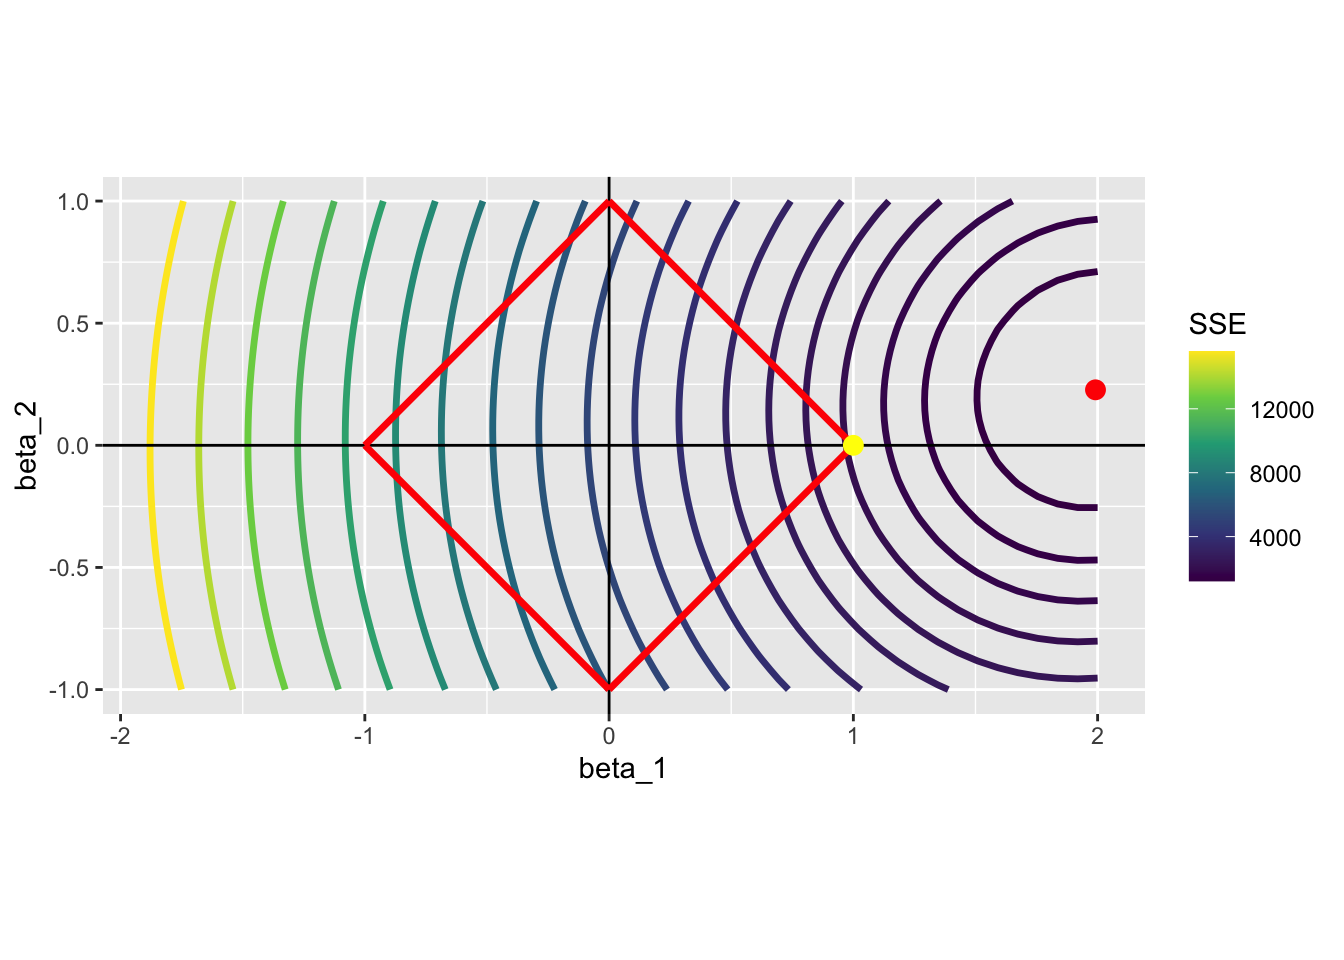
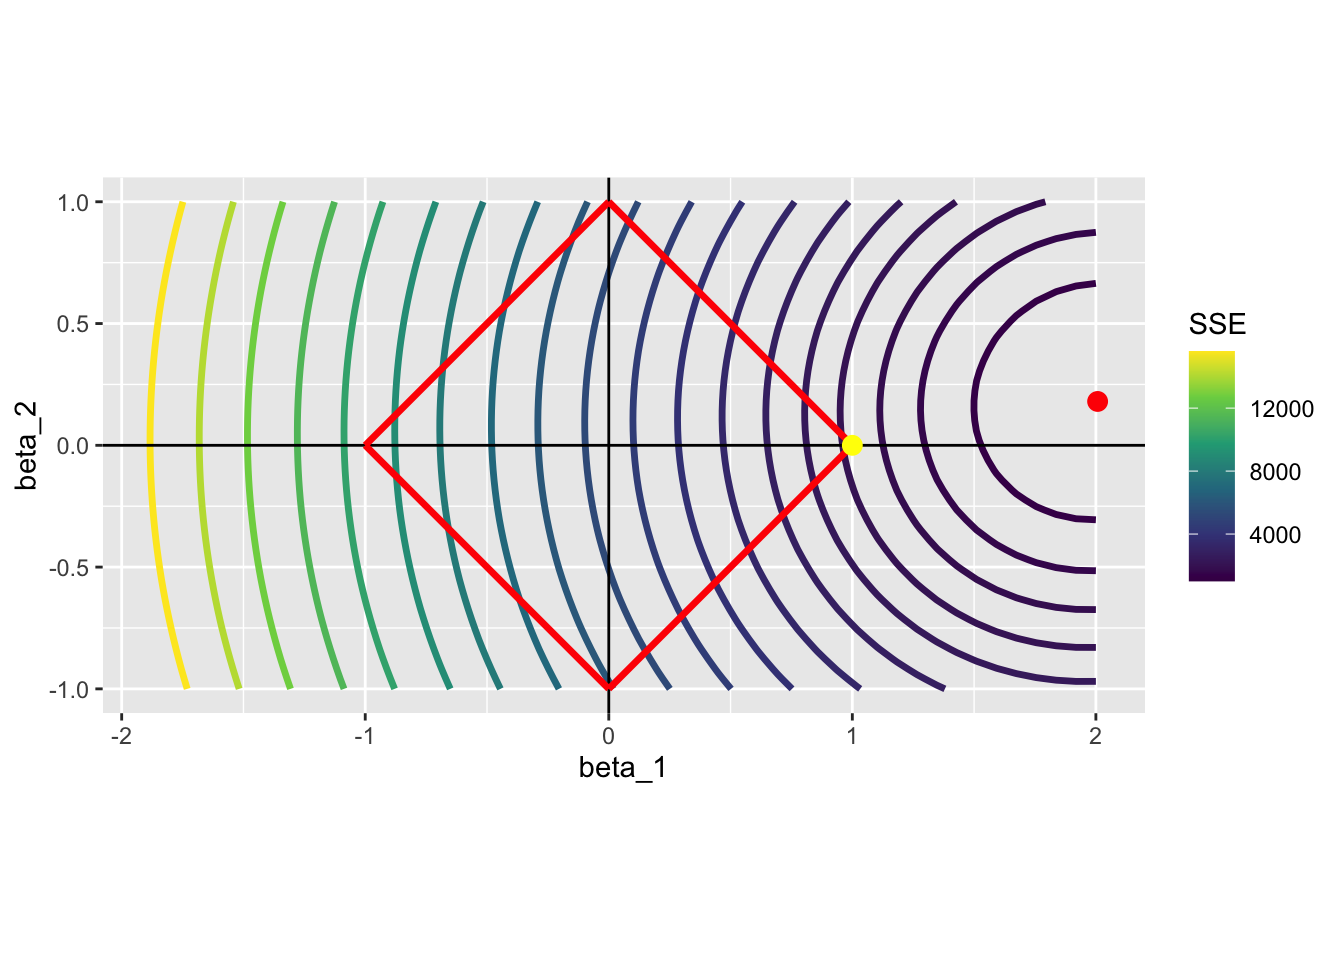
modified

diff --git a/docs/P03-xgb.html b/docs/P03-xgb.html
@@ -489,8 +489,8 @@ digraph {
 "</span>
 <span class="op">)</span></code><button title="Copy to Clipboard" class="code-copy-button"><i class="bi"></i></button></pre></div>
 </details><div class="cell-output-display">
-<div id="htmlwidget-b55a30d50eeb49636485" style="width:100%;height:464px;" class="grViz html-widget"></div>
-<script type="application/json" data-for="htmlwidget-b55a30d50eeb49636485">{"x":{"diagram":"\ndigraph {\n  graph [ranksep = 0.2]\n  node [shape = box]\n    T1R [label = \"L: -9\"]\n    T1L [label = \"R: 1 , 2 , 6\"]\n    T0 [label = \"-9, 1 , 2 , 6\"]\n  edge [minlen = 2]\n    T0->T1L\n    T0->T1R\n  { rank = same; T1R; T1L}\n}\n","config":{"engine":"dot","options":null}},"evals":[],"jsHooks":[]}</script>
+<div id="htmlwidget-83a33d74590fc32b9a45" style="width:100%;height:464px;" class="grViz html-widget"></div>
+<script type="application/json" data-for="htmlwidget-83a33d74590fc32b9a45">{"x":{"diagram":"\ndigraph {\n  graph [ranksep = 0.2]\n  node [shape = box]\n    T1R [label = \"L: -9\"]\n    T1L [label = \"R: 1 , 2 , 6\"]\n    T0 [label = \"-9, 1 , 2 , 6\"]\n  edge [minlen = 2]\n    T0->T1L\n    T0->T1R\n  { rank = same; T1R; T1L}\n}\n","config":{"engine":"dot","options":null}},"evals":[],"jsHooks":[]}</script>
 </div>
 </div>
 </div></div><p>Let’s split the data.</p>
@@ -558,8 +558,8 @@ w_R^* &amp; = 1 + 2 + 6 / (3 + 1) = 2.25
 
 <span class="op">)</span></code><button title="Copy to Clipboard" class="code-copy-button"><i class="bi"></i></button></pre></div>
 </details><div class="cell-output-display">
-<div id="htmlwidget-68f100e0810a82c9cc08" style="width:100%;height:464px;" class="grViz html-widget"></div>
-<script type="application/json" data-for="htmlwidget-68f100e0810a82c9cc08">{"x":{"diagram":"\n  digraph {\n    graph [ranksep = 0.2]\n    node [shape = box]\n      T1R [label = \"L: -9 \n Q score = 40.5\"]\n      T1L [label = \"R: 1 , 2 , 6 \n Q score = 20.25\"]\n      T0 [label = \"-9, 1 , 2 , 6\"]\n    edge [minlen = 2]\n      T0->T1L\n      T0->T1R\n    { rank = same; T1R; T1L}\n  }\n  ","config":{"engine":"dot","options":null}},"evals":[],"jsHooks":[]}</script>
+<div id="htmlwidget-def099c6d6eb3ab6c0e5" style="width:100%;height:464px;" class="grViz html-widget"></div>
+<script type="application/json" data-for="htmlwidget-def099c6d6eb3ab6c0e5">{"x":{"diagram":"\n  digraph {\n    graph [ranksep = 0.2]\n    node [shape = box]\n      T1R [label = \"L: -9 \n Q score = 40.5\"]\n      T1L [label = \"R: 1 , 2 , 6 \n Q score = 20.25\"]\n      T0 [label = \"-9, 1 , 2 , 6\"]\n    edge [minlen = 2]\n      T0->T1L\n      T0->T1R\n    { rank = same; T1R; T1L}\n  }\n  ","config":{"engine":"dot","options":null}},"evals":[],"jsHooks":[]}</script>
 </div>
 </div>
 </div></div><p><span class="math display">\[
@@ -644,8 +644,8 @@ G_1 = \frac{40.5 + 20.25 - 0}{2} - 10 = 20.375
   <span class="op">)</span>
 <span class="op">)</span></code><button title="Copy to Clipboard" class="code-copy-button"><i class="bi"></i></button></pre></div>
 </details><div class="cell-output-display">
-<div id="htmlwidget-50b70d557969637ce38c" style="width:100%;height:464px;" class="grViz html-widget"></div>
-<script type="application/json" data-for="htmlwidget-50b70d557969637ce38c">{"x":{"diagram":"\n    digraph {\n      graph [ranksep = 0.2]\n      node [shape = box]\n        T1R [label = \"L: -9, 1 \n Q score = 21.33\"]\n        T1L [label = \"R: 2 , 6 \n Q score = 21.33\"]\n        T0 [label = \"-9, 1 , 2 , 6\"]\n      edge [minlen = 2]\n        T0->T1L\n        T0->T1R\n      { rank = same; T1R; T1L}\n    }\n    ","config":{"engine":"dot","options":null}},"evals":[],"jsHooks":[]}</script>
+<div id="htmlwidget-af1f3c4f6413f3c9ba6e" style="width:100%;height:464px;" class="grViz html-widget"></div>
+<script type="application/json" data-for="htmlwidget-af1f3c4f6413f3c9ba6e">{"x":{"diagram":"\n    digraph {\n      graph [ranksep = 0.2]\n      node [shape = box]\n        T1R [label = \"L: -9, 1 \n Q score = 21.33\"]\n        T1L [label = \"R: 2 , 6 \n Q score = 21.33\"]\n        T0 [label = \"-9, 1 , 2 , 6\"]\n      edge [minlen = 2]\n        T0->T1L\n        T0->T1R\n      { rank = same; T1R; T1L}\n    }\n    ","config":{"engine":"dot","options":null}},"evals":[],"jsHooks":[]}</script>
 </div>
 </div>
 </div></div><p><span class="math display">\[
@@ -693,8 +693,8 @@ G_2 = \frac{21.33 + 21.33 - 0}{2} - 10 = 11.3333333
   <span class="op">)</span>
 <span class="op">)</span></code><button title="Copy to Clipboard" class="code-copy-button"><i class="bi"></i></button></pre></div>
 </details><div class="cell-output-display">
-<div id="htmlwidget-18af0cc9e54ccb02a06b" style="width:100%;height:464px;" class="grViz html-widget"></div>
-<script type="application/json" data-for="htmlwidget-18af0cc9e54ccb02a06b">{"x":{"diagram":"\n    digraph {\n      graph [ranksep = 0.2]\n      node [shape = box]\n        T1R [label = \"L: -9, 1, 2 \n Q score = 9\"]\n        T1L [label = \"R: 6 \n Q score = 18\"]\n        T0 [label = \"-9, 1 , 2 , 6\"]\n      edge [minlen = 2]\n        T0->T1L\n        T0->T1R\n      { rank = same; T1R; T1L}\n    }\n    ","config":{"engine":"dot","options":null}},"evals":[],"jsHooks":[]}</script>
+<div id="htmlwidget-9fc34ca02b4d4feabaf1" style="width:100%;height:464px;" class="grViz html-widget"></div>
+<script type="application/json" data-for="htmlwidget-9fc34ca02b4d4feabaf1">{"x":{"diagram":"\n    digraph {\n      graph [ranksep = 0.2]\n      node [shape = box]\n        T1R [label = \"L: -9, 1, 2 \n Q score = 9\"]\n        T1L [label = \"R: 6 \n Q score = 18\"]\n        T0 [label = \"-9, 1 , 2 , 6\"]\n      edge [minlen = 2]\n        T0->T1L\n        T0->T1R\n      { rank = same; T1R; T1L}\n    }\n    ","config":{"engine":"dot","options":null}},"evals":[],"jsHooks":[]}</script>
 </div>
 </div>
 </div></div><p><span class="math display">\[
@@ -766,8 +766,8 @@ Note
 
 <span class="op">)</span></code><button title="Copy to Clipboard" class="code-copy-button"><i class="bi"></i></button></pre></div>
 </details><div class="cell-output-display">
-<div id="htmlwidget-c3304400b6cd1dbb2e21" style="width:100%;height:325px;" class="grViz html-widget"></div>
-<script type="application/json" data-for="htmlwidget-c3304400b6cd1dbb2e21">{"x":{"diagram":"\n  digraph {\n    graph [ranksep = 0.2]\n    node [shape = box, width = 0.3, height = 0.15, fontsize = 3, fixedsize = TRUE, penwidth = 0.2]\n      T1R [label = \"L: -9 \n w* = -4.5\"]\n      T1L [label = \"R: 1 , 2 , 6 \n w* = 2.25\"]\n      T0 [label = \"-9, 1 , 2 , 6\"]\n    edge [penwidth = 0.2, arrowsize = 0.3, len = 0.3]\n      T0->T1L\n      T0->T1R\n    { rank = same; T1R; T1L}\n  }\n  ","config":{"engine":"dot","options":null}},"evals":[],"jsHooks":[]}</script>
+<div id="htmlwidget-f264d7fb943a7ee77eec" style="width:100%;height:325px;" class="grViz html-widget"></div>
+<script type="application/json" data-for="htmlwidget-f264d7fb943a7ee77eec">{"x":{"diagram":"\n  digraph {\n    graph [ranksep = 0.2]\n    node [shape = box, width = 0.3, height = 0.15, fontsize = 3, fixedsize = TRUE, penwidth = 0.2]\n      T1R [label = \"L: -9 \n w* = -4.5\"]\n      T1L [label = \"R: 1 , 2 , 6 \n w* = 2.25\"]\n      T0 [label = \"-9, 1 , 2 , 6\"]\n    edge [penwidth = 0.2, arrowsize = 0.3, len = 0.3]\n      T0->T1L\n      T0->T1R\n    { rank = same; T1R; T1L}\n  }\n  ","config":{"engine":"dot","options":null}},"evals":[],"jsHooks":[]}</script>
 </div>
 </div>
 <p>We now use <span class="math inline">\(w^*\)</span> from this tree to update our prediction according to <a href="#eq-update">Equation&nbsp;<span>9.7</span></a>.</p>
@@ -892,8 +892,8 @@ f_{i = 4,b = 1} = 6 + 0.3 \times 2.25 = 6.68
 
 <span class="op">)</span></code><button title="Copy to Clipboard" class="code-copy-button"><i class="bi"></i></button></pre></div>
 <div class="cell-output-display">
-<div id="htmlwidget-5307f49618aa154a9b70" style="width:100%;height:464px;" class="grViz html-widget"></div>
-<script type="application/json" data-for="htmlwidget-5307f49618aa154a9b70">{"x":{"diagram":"\n  digraph {\n    graph [ranksep = 0.2]\n    node [shape = box, width = 0.4, height = 0.15, fontsize = 3, fixedsize = TRUE, penwidth = 0.2]\n      T1R [label = \"L: -8.18 \n w* = -3.83\"]\n      T1L [label = \"R: 0.71 , 1.71 , 5.71 \n w* = 1.74\"]\n      T0 [label = \"-8.18, 0.71 , 1.71 , 5.71\"]\n    edge [penwidth = 0.2, arrowsize = 0.3, len = 0.3]\n      T0->T1L\n      T0->T1R\n    { rank = same; T1R; T1L}\n  }\n  ","config":{"engine":"dot","options":null}},"evals":[],"jsHooks":[]}</script>
+<div id="htmlwidget-c7982e8f9d25a84ad138" style="width:100%;height:464px;" class="grViz html-widget"></div>
+<script type="application/json" data-for="htmlwidget-c7982e8f9d25a84ad138">{"x":{"diagram":"\n  digraph {\n    graph [ranksep = 0.2]\n    node [shape = box, width = 0.4, height = 0.15, fontsize = 3, fixedsize = TRUE, penwidth = 0.2]\n      T1R [label = \"L: -8.18 \n w* = -3.83\"]\n      T1L [label = \"R: 0.71 , 1.71 , 5.71 \n w* = 1.74\"]\n      T0 [label = \"-8.18, 0.71 , 1.71 , 5.71\"]\n    edge [penwidth = 0.2, arrowsize = 0.3, len = 0.3]\n      T0->T1L\n      T0->T1R\n    { rank = same; T1R; T1L}\n  }\n  ","config":{"engine":"dot","options":null}},"evals":[],"jsHooks":[]}</script>
 </div>
 </div>
 <p>Let’s now update our predictions.</p>

diff --git a/docs/B04-regularization.html b/docs/B04-regularization.html
@@ -397,7 +397,7 @@ Min_{\beta} \sum_{i=1}^N (y_i - \beta_1 x_1 - \beta_2 x_2)^2 \\
 <span class="op">)</span></code><button title="Copy to Clipboard" class="code-copy-button"><i class="bi"></i></button></pre></div>
 <div class="cell-output cell-output-stdout">
 <pre><code>(Intercept)         x_1         x_2 
-0.005487254 1.991328620 0.227197583 </code></pre>
+ 0.01666832  2.00711701  0.18010906 </code></pre>
 </div>
 </div>
 <p>We now calculate the value of the objective functions at different values of <span class="math inline">\(\beta_1\)</span> and <span class="math inline">\(\beta_2\)</span>. Here is the set of <span class="math inline">\(\{\beta_1, \beta_2\}\)</span> combinations we look at.</p>
@@ -779,7 +779,7 @@ V20         -1.144987654</code></pre>
 <div class="cell">
 <div class="sourceCode" id="cb23"><pre class="downlit sourceCode r code-with-copy"><code class="sourceCode R"><span class="va">cv_lasso</span><span class="op">$</span><span class="va">lambda.min</span></code><button title="Copy to Clipboard" class="code-copy-button"><i class="bi"></i></button></pre></div>
 <div class="cell-output cell-output-stdout">
-<pre><code>[1] 0.08307327</code></pre>
+<pre><code>[1] 0.06896889</code></pre>
 </div>
 </div>
 <p>You can access the coefficient estimates when <span class="math inline">\(\lambda\)</span> is <code>lambda.min</code> as follows</p>
@@ -787,28 +787,28 @@ V20         -1.144987654</code></pre>
 <div class="sourceCode" id="cb25"><pre class="downlit sourceCode r code-with-copy"><code class="sourceCode R"><span class="fu"><a href="https://rdrr.io/r/stats/coef.html">coef</a></span><span class="op">(</span><span class="va">cv_lasso</span>, s <span class="op">=</span> <span class="st">"lambda.min"</span><span class="op">)</span></code><button title="Copy to Clipboard" class="code-copy-button"><i class="bi"></i></button></pre></div>
 <div class="cell-output cell-output-stdout">
 <pre><code>21 x 1 sparse Matrix of class "dgCMatrix"
-                     s1
-(Intercept)  0.14936467
-V1           1.32975267
-V2           .         
-V3           0.69096092
-V4           .         
-V5          -0.83122558
-V6           0.53669611
-V7           0.02005438
-V8           0.33193760
-V9           .         
-V10          .         
-V11          0.16239419
-V12          .         
-V13          .         
-V14         -1.07081121
-V15          .         
-V16          .         
-V17          .         
-V18          .         
-V19          .         
-V20         -1.04340741</code></pre>
+                      s1
+(Intercept)  0.147927056
+V1           1.337393911
+V2           .          
+V3           0.704086481
+V4           .          
+V5          -0.842853150
+V6           0.549403480
+V7           0.032703914
+V8           0.342430521
+V9           .          
+V10          0.001206608
+V11          0.178995989
+V12          .          
+V13          .          
+V14         -1.079993473
+V15          .          
+V16          .          
+V17          .          
+V18          .          
+V19          .          
+V20         -1.061382444</code></pre>
 </div>
 </div>
 <p>The following code gives you the coefficient estimates when <span class="math inline">\(\lambda\)</span> is <code>lambda.1se</code></p>
@@ -867,27 +867,27 @@ Note
 <div class="cell-output cell-output-stdout">
 <pre><code>21 x 1 sparse Matrix of class "dgCMatrix"
                     s1
-(Intercept)  0.1477086
-V1           1.3413552
+(Intercept)  0.1482955
+V1           1.3381070
 V2           .        
-V3           0.7003682
+V3           0.6936938
 V4           .        
-V5          -0.8315680
-V6           0.5507735
-V7           0.0294112
-V8           0.3446125
+V5          -0.8249778
+V6           0.5448439
+V7           0.0230429
+V8           0.3398575
 V9           .        
 V10          .        
-V11          0.1733043
+V11          0.1648445
 V12          .        
 V13          .        
-V14         -1.0840644
+V14         -1.0801745
 V15          .        
 V16          .        
 V17          .        
 V18          .        
 V19          .        
-V20         -1.0441256</code></pre>
+V20         -1.0338882</code></pre>
 </div>
 </div>
 <p>Here is after scaling:</p>
@@ -932,27 +932,27 @@ V20         -1.32068655</code></pre>
 <div class="cell-output cell-output-stdout">
 <pre><code>21 x 1 sparse Matrix of class "dgCMatrix"
                      s1
-(Intercept)  0.14936467
-V1           1.32975267
+(Intercept)  0.14867414
+V1           1.33377821
 V2           .         
-V3           0.69096092
+V3           0.69787701
 V4           .         
-V5          -0.83122558
-V6           0.53669611
-V7           0.02005438
-V8           0.33193760
+V5          -0.83726751
+V6           0.54334327
+V7           0.02668633
+V8           0.33741131
 V9           .         
 V10          .         
-V11          0.16239419
+V11          0.17105029
 V12          .         
 V13          .         
-V14         -1.07081121
+V14         -1.07552680
 V15          .         
 V16          .         
 V17          .         
 V18          .         
 V19          .         
-V20         -1.04340741</code></pre>
+V20         -1.05278699</code></pre>
 </div>
 <div class="sourceCode" id="cb35"><pre class="downlit sourceCode r code-with-copy"><code class="sourceCode R"><span class="co">#=== scaled ===#</span>
 <span class="fu">cv.glmnet</span><span class="op">(</span><span class="va">X_scaled</span>, <span class="va">y</span>, nfolds <span class="op">=</span> <span class="fl">5</span>, standardize <span class="op">=</span> <span class="cn">TRUE</span><span class="op">)</span> <span class="op">%&gt;%</span> 
@@ -960,27 +960,27 @@ V20         -1.04340741</code></pre>
 <div class="cell-output cell-output-stdout">
 <pre><code>21 x 1 sparse Matrix of class "dgCMatrix"
                        s1
-(Intercept)  1.458320e-01
-V1           1.340981e+03
+(Intercept)  1.479271e-01
+V1           1.337394e+03
 V2           .           
-V3           7.083471e-01
+V3           7.040865e-01
 V4           .           
-V5          -8.480878e-01
-V6           5.548238e-01
-V7           3.851974e-02
-V8           3.472213e-01
+V5          -8.428531e-01
+V6           5.494035e-01
+V7           3.270391e-02
+V8           3.424305e-01
 V9           .           
-V10          1.003405e-02
-V11          1.863653e-01
+V10          1.206608e-03
+V11          1.789960e-01
 V12          .           
 V13          .           
-V14         -1.086007e+00
-V15         -4.444319e-03
+V14         -1.079993e+00
+V15          .           
 V16          .           
 V17          .           
 V18          .           
 V19          .           
-V20         -1.069943e+00</code></pre>
+V20         -1.061382e+00</code></pre>
 </div>
 </div>
 <p>While you do not have to worry about scaling issues as long as you are using <code>glmnet()</code>, this is something worth remembering.</p>

diff --git a/docs/P02-boosted-regression-forest.html b/docs/P02-boosted-regression-forest.html
@@ -481,21 +481,21 @@ r_{i,b} = - \huge[\normalsize\frac{\partial L(y_i, f(x_i))}{\partial f(x_i)}\hug
 <div class="sourceCode" id="cb26"><pre class="downlit sourceCode r code-with-copy"><code class="sourceCode R"><span class="co">#=== see the MSE history ===#  </span>
 <span class="va">gbm_fit</span><span class="op">$</span><span class="va">cv.error</span></code><button title="Copy to Clipboard" class="code-copy-button"><i class="bi"></i></button></pre></div>
 <div class="cell-output cell-output-stdout">
-<pre><code>  [1] 1.2198383 1.1099112 1.0116043 0.9338046 0.8641400 0.8103384 0.7630733
-  [8] 0.7130854 0.6756473 0.6424288 0.6147108 0.5840512 0.5639337 0.5403991
- [15] 0.5226747 0.5031897 0.4911730 0.4797407 0.4686225 0.4590659 0.4489960
- [22] 0.4399448 0.4321775 0.4276671 0.4233770 0.4184197 0.4131489 0.4116632
- [29] 0.4072300 0.4061543 0.4046611 0.4016171 0.3989080 0.3978042 0.3951927
- [36] 0.3921705 0.3925648 0.3922438 0.3915587 0.3906950 0.3889498 0.3887573
- [43] 0.3867005 0.3868359 0.3856548 0.3844319 0.3835544 0.3829116 0.3821933
- [50] 0.3820211 0.3804808 0.3813778 0.3829497 0.3823523 0.3796768 0.3785568
- [57] 0.3785289 0.3773548 0.3749115 0.3760665 0.3760136 0.3755928 0.3755852
- [64] 0.3748253 0.3744703 0.3745496 0.3750412 0.3749738 0.3751717 0.3752320
- [71] 0.3744521 0.3746552 0.3740409 0.3742584 0.3755120 0.3750227 0.3759000
- [78] 0.3760811 0.3768255 0.3759471 0.3764014 0.3759330 0.3764144 0.3762557
- [85] 0.3745856 0.3740254 0.3741536 0.3742979 0.3742221 0.3731828 0.3738018
- [92] 0.3735042 0.3733621 0.3732609 0.3743506 0.3737610 0.3737769 0.3725700
- [99] 0.3728015 0.3725077</code></pre>
+<pre><code>  [1] 1.2229690 1.1075832 1.0157435 0.9417138 0.8668569 0.8107364 0.7674985
+  [8] 0.7151831 0.6745636 0.6450490 0.6157606 0.5943775 0.5728772 0.5541941
+ [15] 0.5367066 0.5229922 0.5095516 0.4941631 0.4824212 0.4687584 0.4572636
+ [22] 0.4479893 0.4428348 0.4380302 0.4307389 0.4254884 0.4208747 0.4165191
+ [29] 0.4116251 0.4056642 0.4013533 0.3991657 0.3970355 0.3964611 0.3937440
+ [36] 0.3915728 0.3921816 0.3900771 0.3911436 0.3906951 0.3914275 0.3901961
+ [43] 0.3896571 0.3879309 0.3861445 0.3847895 0.3831043 0.3826466 0.3801617
+ [50] 0.3802345 0.3801612 0.3798797 0.3783574 0.3772985 0.3762190 0.3756384
+ [57] 0.3746196 0.3742810 0.3730617 0.3748269 0.3756662 0.3762339 0.3757384
+ [64] 0.3748527 0.3745331 0.3745911 0.3751994 0.3747395 0.3737588 0.3739640
+ [71] 0.3735709 0.3730999 0.3720065 0.3718486 0.3716349 0.3718658 0.3720764
+ [78] 0.3714145 0.3733023 0.3727223 0.3724057 0.3731439 0.3721333 0.3716534
+ [85] 0.3715348 0.3714628 0.3719048 0.3722881 0.3710087 0.3709487 0.3703085
+ [92] 0.3698065 0.3694505 0.3706741 0.3703749 0.3697160 0.3700435 0.3693750
+ [99] 0.3693814 0.3694650</code></pre>
 </div>
 </div>
 <p>You can visualize the CV results using <code><a href="https://rdrr.io/pkg/gbm/man/gbm.perf.html">gbm.perf()</a></code>.</p>
@@ -505,7 +505,7 @@ r_{i,b} = - \huge[\normalsize\frac{\partial L(y_i, f(x_i))}{\partial f(x_i)}\hug
 <p><img src="P02-boosted-regression-forest_files/figure-html/unnamed-chunk-26-1.png" class="img-fluid" width="672"></p>
 </div>
 <div class="cell-output cell-output-stdout">
-<pre><code>[1] 100</code></pre>
+<pre><code>[1] 98</code></pre>
 </div>
 </div>
 <p>Note that it will tell you what the optimal number of trees is <span style="color:blue"> given </span> the values of the other hyper-parameters (here default values). If you want to tune other parameters as well, you need to program it yourself.</p>

diff --git a/docs/A01-mc-simulation.html b/docs/A01-mc-simulation.html
@@ -287,7 +287,7 @@ code span.wa { color: #60a0b0; font-weight: bold; font-style: italic; } /* Warni
 
 <span class="fu"><a href="https://rdrr.io/r/utils/head.html">head</a></span><span class="op">(</span><span class="va">x_u</span><span class="op">)</span></code><button title="Copy to Clipboard" class="code-copy-button"><i class="bi"></i></button></pre></div>
 <div class="cell-output cell-output-stdout">
-<pre><code>[1] 0.1147423 0.4733042 0.6563786 0.3504407 0.8087864 0.5755718</code></pre>
+<pre><code>[1] 0.2819268 0.5544102 0.3399541 0.8785103 0.5901369 0.9546177</code></pre>
 </div>
 <div class="sourceCode" id="cb3"><pre class="downlit sourceCode r code-with-copy"><code class="sourceCode R"><span class="fu"><a href="https://rdrr.io/r/graphics/hist.html">hist</a></span><span class="op">(</span><span class="va">x_u</span><span class="op">)</span></code><button title="Copy to Clipboard" class="code-copy-button"><i class="bi"></i></button></pre></div>
 <div class="cell-output-display">
@@ -300,7 +300,7 @@ code span.wa { color: #60a0b0; font-weight: bold; font-style: italic; } /* Warni
 
 <span class="fu"><a href="https://rdrr.io/r/utils/head.html">head</a></span><span class="op">(</span><span class="va">x_n</span><span class="op">)</span></code><button title="Copy to Clipboard" class="code-copy-button"><i class="bi"></i></button></pre></div>
 <div class="cell-output cell-output-stdout">
-<pre><code>[1]  1.0475494 -0.4855052  0.7220932  0.8343307 -0.6774484 -0.6375413</code></pre>
+<pre><code>[1] -0.81693399 -0.28328661  0.17030182 -0.05521493 -1.16520506  0.37030996</code></pre>
 </div>
 <div class="sourceCode" id="cb6"><pre class="downlit sourceCode r code-with-copy"><code class="sourceCode R"><span class="fu"><a href="https://rdrr.io/r/graphics/hist.html">hist</a></span><span class="op">(</span><span class="va">x_n</span><span class="op">)</span></code><button title="Copy to Clipboard" class="code-copy-button"><i class="bi"></i></button></pre></div>
 <div class="cell-output-display">
@@ -312,9 +312,9 @@ code span.wa { color: #60a0b0; font-weight: bold; font-style: italic; } /* Warni
 <div class="sourceCode" id="cb7"><pre class="downlit sourceCode r code-with-copy"><code class="sourceCode R"><span class="co">#=== Bernouli (0.7) ===#</span>
 <span class="fu"><a href="https://rdrr.io/r/stats/Uniform.html">runif</a></span><span class="op">(</span><span class="fl">30</span><span class="op">)</span> <span class="op">&gt;</span> <span class="fl">0.3</span></code><button title="Copy to Clipboard" class="code-copy-button"><i class="bi"></i></button></pre></div>
 <div class="cell-output cell-output-stdout">
-<pre><code> [1]  TRUE  TRUE  TRUE  TRUE  TRUE  TRUE FALSE  TRUE FALSE  TRUE  TRUE FALSE
-[13]  TRUE  TRUE  TRUE FALSE FALSE  TRUE FALSE FALSE  TRUE  TRUE  TRUE FALSE
-[25]  TRUE  TRUE  TRUE FALSE  TRUE FALSE</code></pre>
+<pre><code> [1]  TRUE FALSE  TRUE FALSE  TRUE FALSE  TRUE  TRUE  TRUE  TRUE FALSE  TRUE
+[13]  TRUE FALSE  TRUE  TRUE  TRUE  TRUE  TRUE FALSE FALSE FALSE FALSE FALSE
+[25]  TRUE  TRUE FALSE FALSE  TRUE  TRUE</code></pre>
 </div>
 </div>
 <p>They are called <span style="color:red"> pseudo </span> random number generators because they are not truly random. What sequence of numbers you get is determined by <span style="color:blue"> seed </span>. In R, you can use <code><a href="https://rdrr.io/r/base/Random.html">set.seed()</a></code> to set seed.</p>

diff --git a/docs/P01-random-forest.html b/docs/P01-random-forest.html
@@ -675,7 +675,7 @@ Var(\frac{x_1 + x_2}{2}) &amp; = \frac{Var(x_1)}{4} + \frac{Var(x_2)}{4} + \frac
 
 <span class="fu"><a href="https://rdrr.io/r/stats/cor.html">cor</a></span><span class="op">(</span><span class="va">x_1</span>, <span class="va">x_2</span><span class="op">)</span></code><button title="Copy to Clipboard" class="code-copy-button"><i class="bi"></i></button></pre></div>
 <div class="cell-output cell-output-stdout">
-<pre><code>[1] -0.04152963</code></pre>
+<pre><code>[1] -0.04817562</code></pre>
 </div>
 <div class="sourceCode" id="cb32"><pre class="downlit sourceCode r code-with-copy"><code class="sourceCode R"><span class="co">#=== second case (positively correlated) ===#</span>
 <span class="va">x_1</span> <span class="op">&lt;-</span> <span class="fu"><a href="https://rdrr.io/r/stats/Normal.html">rnorm</a></span><span class="op">(</span><span class="va">N</span><span class="op">)</span>
@@ -683,7 +683,7 @@ Var(\frac{x_1 + x_2}{2}) &amp; = \frac{Var(x_1)}{4} + \frac{Var(x_2)}{4} + \frac
 
 <span class="fu"><a href="https://rdrr.io/r/stats/cor.html">cor</a></span><span class="op">(</span><span class="va">x_1</span>, <span class="va">x_2</span><span class="op">)</span></code><button title="Copy to Clipboard" class="code-copy-button"><i class="bi"></i></button></pre></div>
 <div class="cell-output cell-output-stdout">
-<pre><code>[1] 0.5317804</code></pre>
+<pre><code>[1] 0.5265198</code></pre>
 </div>
 <div class="sourceCode" id="cb34"><pre class="downlit sourceCode r code-with-copy"><code class="sourceCode R"><span class="co">#=== third case (negatively correlated) ===#</span>
 <span class="va">x_1</span> <span class="op">&lt;-</span> <span class="fu"><a href="https://rdrr.io/r/stats/Normal.html">rnorm</a></span><span class="op">(</span><span class="va">N</span><span class="op">)</span>
@@ -691,7 +691,7 @@ Var(\frac{x_1 + x_2}{2}) &amp; = \frac{Var(x_1)}{4} + \frac{Var(x_2)}{4} + \frac
 
 <span class="fu"><a href="https://rdrr.io/r/stats/cor.html">cor</a></span><span class="op">(</span><span class="va">x_1</span>, <span class="va">x_2</span><span class="op">)</span></code><button title="Copy to Clipboard" class="code-copy-button"><i class="bi"></i></button></pre></div>
 <div class="cell-output cell-output-stdout">
-<pre><code>[1] -0.8072403</code></pre>
+<pre><code>[1] -0.8031794</code></pre>
 </div>
 </div>
 <div class="cell">
